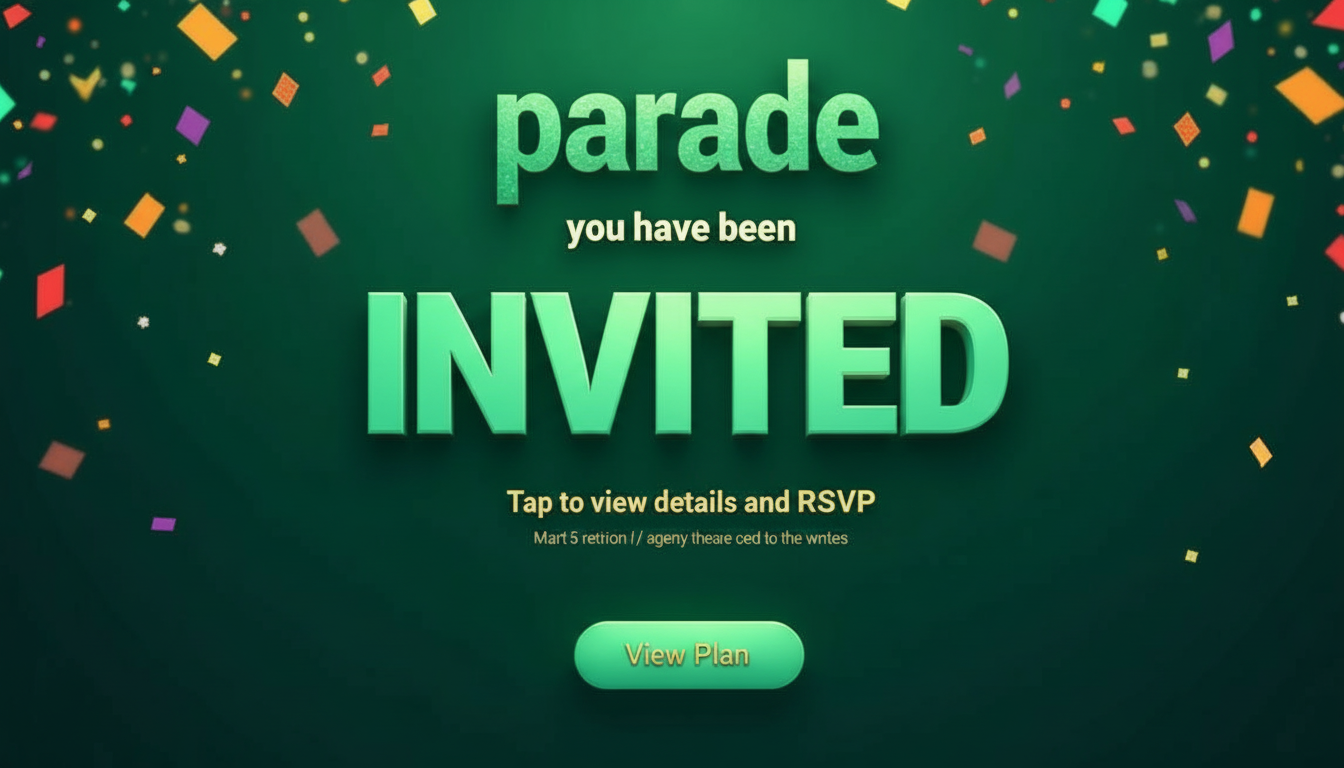
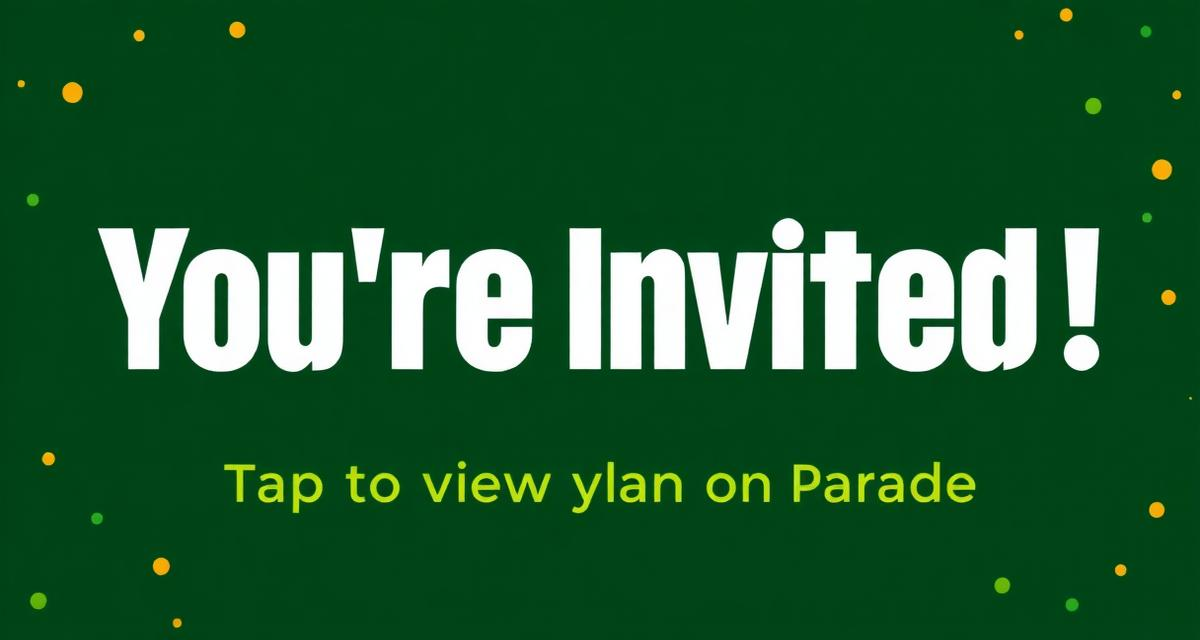
Changes

diff --git a/src/components/plans/InviteToPlanDialog.tsx b/src/components/plans/InviteToPlanDialog.tsx
@@ -45,10 +45,9 @@ export function InviteToPlanDialog({ open, onOpenChange, planId, planTitle }: In
 
       if (error) throw error;
 
-      // Use a static HTML page at /i/ that has proper OG meta tags for iMessage/social crawlers.
-      // Supabase edge functions can't serve HTML (text/html is rewritten to text/plain),
-      // so we use a static page that redirects to the SPA plan-invite route via JavaScript.
-      const ogLink = `https://helloparade.app/i/?t=${data.invite_token}`;
+      // Use the edge function URL as the shareable link — it serves HTML with OG meta tags
+      // so iMessage/social crawlers see the "You're Invited!" card preview.
+      const ogLink = `${import.meta.env.VITE_SUPABASE_URL}/functions/v1/plan-invite-og?token=${data.invite_token}`;
       setGeneratedLink(ogLink);
       setDisplayLink(ogLink);
     } catch (err: any) {
@@ -76,8 +75,8 @@ export function InviteToPlanDialog({ open, onOpenChange, planId, planTitle }: In
 
       if (error) throw error;
 
-      // Use static invite page for rich link previews in email
-      const inviteUrl = `https://helloparade.app/i/?t=${data.invite_token}`;
+      // Use edge function URL for rich link previews in email
+      const inviteUrl = `${import.meta.env.VITE_SUPABASE_URL}/functions/v1/plan-invite-og?token=${data.invite_token}`;
 
       const inviterName = user?.user_metadata?.display_name || user?.email?.split('@')[0] || 'A friend';
 
